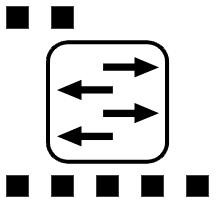
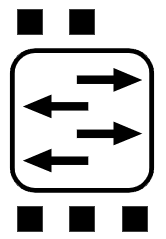
Changed nodes on 5 port switch

diff --git a/src/components/LabEditorGUI/Diagram.tsx b/src/components/LabEditorGUI/Diagram.tsx
@@ -99,7 +99,7 @@ const UncontrolledDiagram = ({nodeToDelete, setNodeToDelete, menuType, setMenuTy
     const totalPortsIn = [];
     if (ports === 5) {
       totalPortsIn.push({id: `1-${schema.nodes.length}-in`}, {id: `2-${schema.nodes.length}-in`});
-      for (let port = 0; port < (ports); port++) {
+      for (let port = 2; port < (ports); port++) {
         totalPortsOut.push({id: `${port}-${schema.nodes.length}-out`});
       }
     } else {
